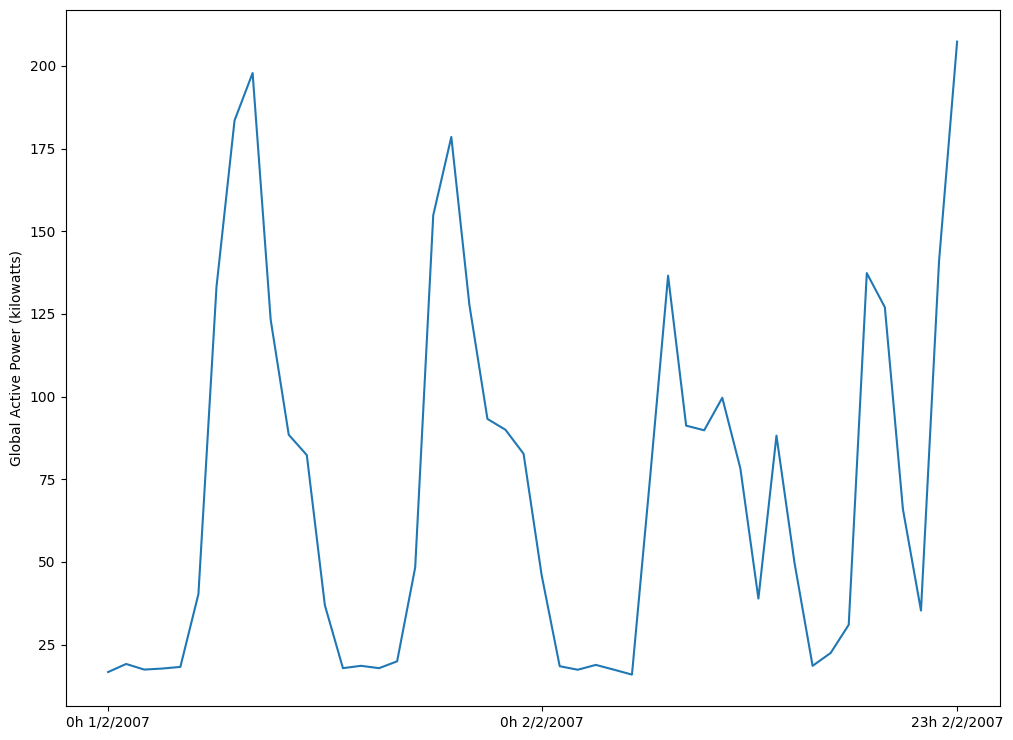
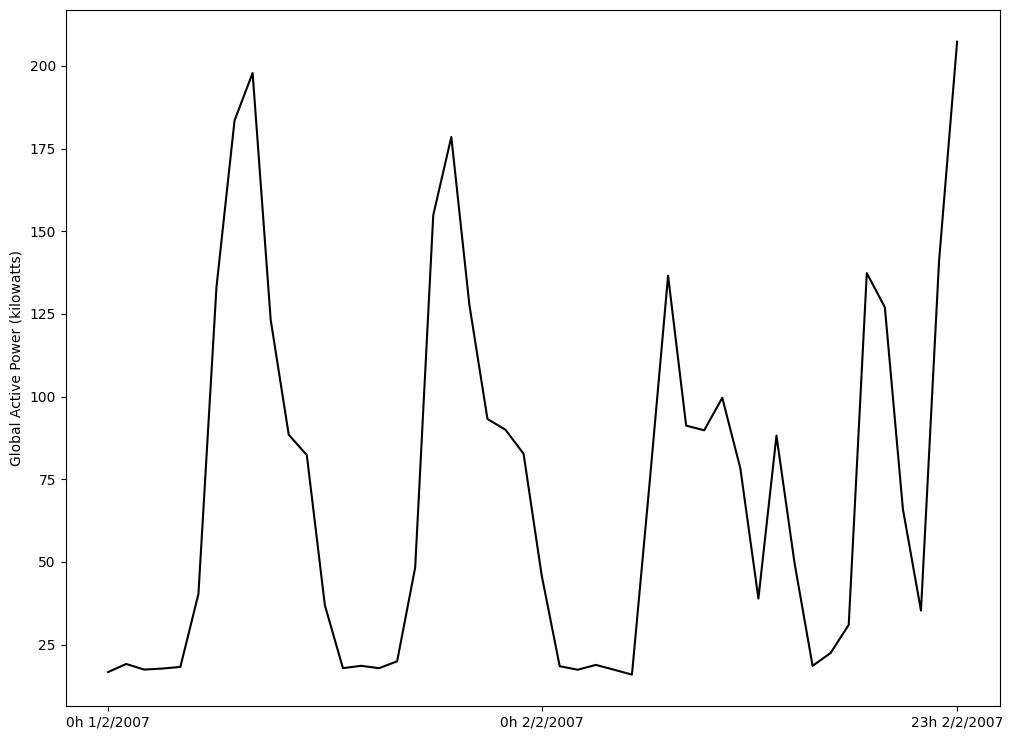
/

diff --git a/source/Lab_3_electricpower.py b/source/Lab_3_electricpower.py
@@ -77,7 +77,7 @@ def plot2():
     df_2 = pd.concat([x,y], axis=1)
     temp = df_2.groupby("Hour").sum()
 
-    plt.plot(temp.index, temp.Global_active_power)
+    plt.plot(temp.index, temp.Global_active_power, color="black")
     plt.tight_layout()
 
     positions = ('1_00', '2_00', '2_23')
